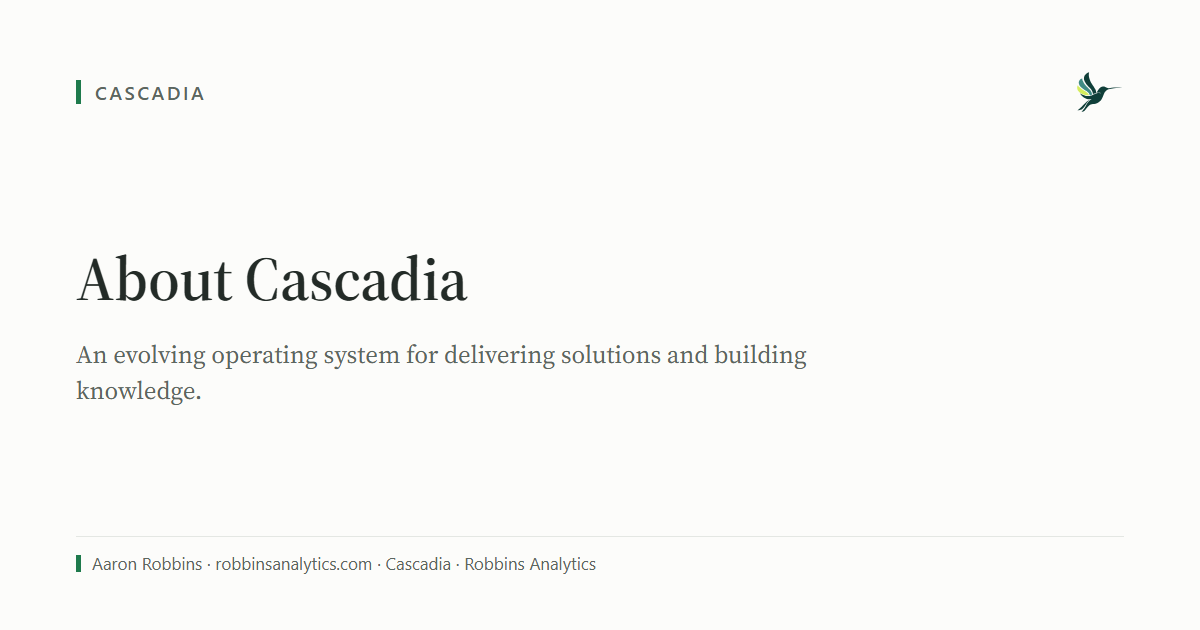
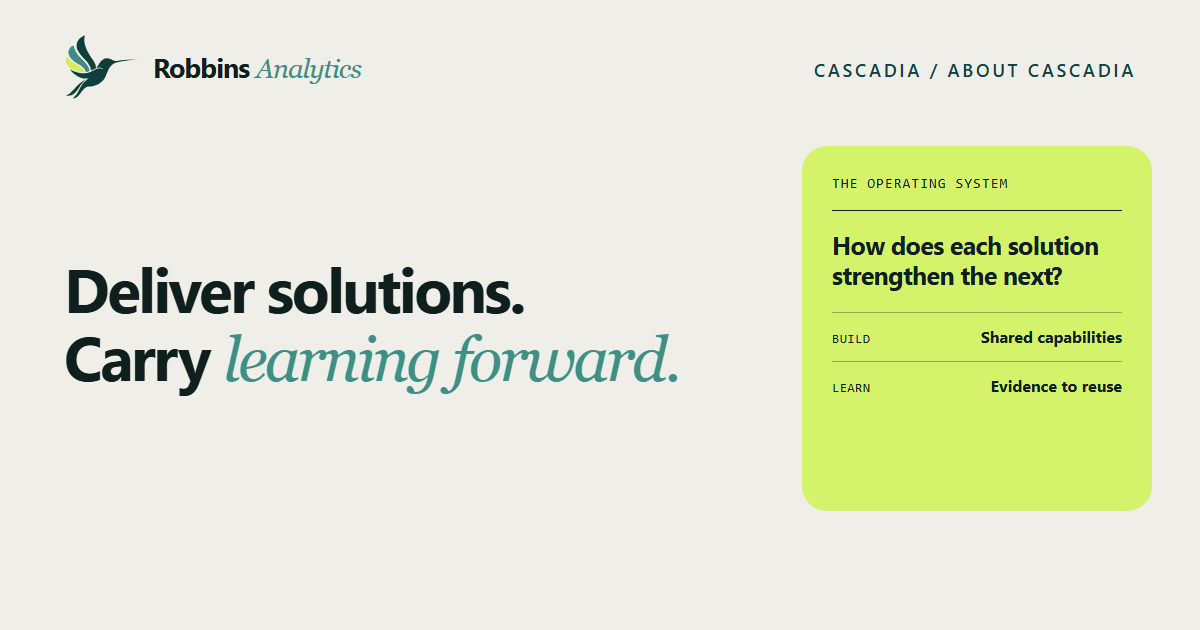
Refine Cascadia social previews with suite hero design

diff --git a/tools/build_thumbs.py b/tools/build_thumbs.py
@@ -1,11 +1,11 @@
 #!/usr/bin/env python3
-"""Build Cascadia OG/social thumbnails to the v2.2 design system.
+"""Build portfolio thumbnails and four Cascadia suite social previews.
 
 1200x630 (the Open Graph standard, and what iMessage/Slack/LinkedIn crop to).
-Rendered through the same Chromium the charts are, so the type and the palette
-are identical rather than merely similar.
+Rendered through Chromium so the suite previews can use the site's hero type,
+palette, logo and lime summary card.
 
-The signature elements, from VIZ-PRINCIPLES.md:
+The portfolio thumbnail signature elements, from VIZ-PRINCIPLES.md:
   - Paper #FCFCFA surface, Basalt text, Slate moss secondary
   - Source Serif 4 carries the voice; the Segoe UI stack carries the data
   - the provenance strip's Evergreen tick, in the same position every time
@@ -151,26 +151,34 @@ MODULES = [
          accent="evergreen", motif="bars"),
 ]
 
-# The four-page Cascadia operating system is a suite, not another analytics
-# module. These cards share the current brand mark and the existing card
-# typography, but omit chart motifs because none represents these pages.
+# The four-page Cascadia operating system has its own page-hero visual language.
+# Keep this separate from the portfolio/module thumbnails above.
 SUITE_PAGES = [
-    dict(slug="about", data="Cascadia · Robbins Analytics", kicker="Cascadia",
-         title="About Cascadia",
-         line="An evolving operating system for delivering solutions and building knowledge.",
-         accent="evergreen", motif=None),
-    dict(slug="in-practice", data="Cascadia · Robbins Analytics", kicker="Cascadia",
-         title="In Practice",
-         line="Real portfolio solutions show how rules, evidence and human review shape AI-assisted work.",
-         accent="evergreen", motif=None),
-    dict(slug="how-it-learns", data="Cascadia · Robbins Analytics", kicker="Cascadia",
-         title="How It Learns",
-         line="Evidence and retrospectives make learning available to the next build.",
-         accent="evergreen", motif=None),
-    dict(slug="for-your-company", data="Cascadia · Robbins Analytics", kicker="Cascadia",
-         title="For Your Company",
-         line="A playbook for setting up the capabilities and delivering the first accepted solution.",
-         accent="evergreen", motif=None),
+    dict(slug="about", title="About Cascadia",
+         headline="Deliver solutions.<br>Carry <em>learning forward.</em>",
+         card_kicker="The operating system",
+         card_title="How does each solution strengthen the next?",
+         rows=[("Build", "Shared capabilities"), ("Learn", "Evidence to reuse")]),
+    dict(slug="in-practice", title="In Practice",
+         headline="AI assists the analysis.<br>Evidence <em>earns trust.</em>",
+         card_kicker="The operating boundary",
+         card_title="What makes a solution usable?",
+         rows=[("Develop", "AI assists"), ("Check", "Evidence is inspectable"),
+               ("Decide", "People remain accountable")]),
+    dict(slug="how-it-learns", title="How It Learns",
+         headline_size=55,
+         headline="The work delivers a solution.<br>What was learned<br><em>shapes the next.</em>",
+         card_kicker="The learning route",
+         card_title="Knowledge makes learning transferable.",
+         rows=[("See", "What happened"), ("Reflect", "What was learned"),
+               ("Decide", "What can travel")]),
+    dict(slug="for-your-company", title="For Your Company",
+         headline_size=55,
+         headline="From the first week<br>to the <em>first accepted solution.</em>",
+         card_kicker="The route into delivery",
+         card_title="When is work ready to take?",
+         rows=[("First", "Agree scope and owners"), ("Then", "Assess readiness"),
+               ("Deliver", "Open intake and acceptance")]),
 ]
 
 MOTIFS = {
@@ -271,6 +279,60 @@ def page(m):
 </body></html>"""
 
 
+def suite_page(m):
+    """Render the suite's actual hero type and lime summary-card vocabulary."""
+    rows = "".join(
+        f'<div class="row"><dt>{label}</dt><dd>{value}</dd></div>'
+        for label, value in m["rows"]
+    )
+    return f"""<!doctype html><html><head><meta charset="utf-8">
+<style>
+  @page {{ size: 1200px 630px; margin: 0 }}
+  * {{ box-sizing: border-box }}
+  html, body {{ width: 1200px; height: 630px; margin: 0; background: #efeee9 }}
+  body {{ font-family: "Segoe UI", Arial, sans-serif; color: #0f1f1e;
+          -webkit-font-smoothing: antialiased; overflow: hidden }}
+  .top {{ height: 146px; padding: 33px 64px 0; display: flex;
+          align-items: flex-start; justify-content: space-between }}
+  .identity {{ display: flex; align-items: center; gap: 13px }}
+  .brand svg {{ display: block; width: 76px; height: 68px }}
+  .brand-name {{ font-size: 27px; font-weight: 700; letter-spacing: -.035em }}
+  .brand-name span {{ font-family: Georgia, serif; font-style: italic;
+                      font-weight: 400; color: #3f8f85 }}
+  .page-name {{ padding-top: 25px; font-size: 18px; font-weight: 600;
+                letter-spacing: .15em; text-transform: uppercase; color: #12403c }}
+  .content {{ display: grid; grid-template-columns: 710px 350px;
+              gap: 28px; padding: 0 64px }}
+  .headline {{ align-self: center; min-width: 0; padding-bottom: 10px }}
+  h1 {{ margin: 0; font-size: {m.get('headline_size', 62)}px; line-height: 1.09; letter-spacing: -.04em;
+        font-weight: 700; color: #0f1f1e }}
+  h1 em {{ font-family: Georgia, serif; font-weight: 400;
+           letter-spacing: -.045em; color: #3f8f85 }}
+  .card {{ min-height: 365px; background: #d4f36b; border-radius: 25px;
+           padding: 29px 30px 26px }}
+  .card-kicker {{ margin: 0; font: 14px/1.3 Consolas, monospace;
+                  letter-spacing: .08em; text-transform: uppercase }}
+  .rule {{ height: 1px; background: #0f1f1e; margin: 17px 0 19px }}
+  .card h2 {{ margin: 0 0 22px; font-size: 25px; line-height: 1.2;
+              letter-spacing: -.025em; font-weight: 700 }}
+  dl {{ margin: 0 }}
+  .row {{ display: flex; justify-content: space-between; gap: 18px;
+          align-items: baseline; border-top: 1px solid #0f1f1e55;
+          padding: 14px 0 }}
+  dt {{ font: 13px/1.2 Consolas, monospace; text-transform: uppercase;
+        letter-spacing: .04em; white-space: nowrap }}
+  dd {{ margin: 0; text-align: right; font-size: 16px; line-height: 1.2;
+        font-weight: 700; max-width: 190px }}
+</style></head><body>
+  <div class="top"><div class="identity"><div class="brand">{_MARK_SVG.read_text(encoding="utf-8")}</div>
+    <div class="brand-name">Robbins <span>Analytics</span></div></div>
+    <div class="page-name">Cascadia / {m['title']}</div></div>
+  <div class="content"><div class="headline"><h1>{m['headline']}</h1></div>
+    <aside class="card"><p class="card-kicker">{m['card_kicker']}</p><div class="rule"></div>
+      <h2>{m['card_title']}</h2><dl>{rows}</dl></aside></div>
+</body></html>"""
+
+
 def main():
     global OUT
     ap = argparse.ArgumentParser(description="Build Cascadia OG thumbnails.")
@@ -303,7 +365,7 @@ def main():
             print(f"  {png.name}")
         for m in SUITE_PAGES:
             html = OUT / f"_social-cascadia-{m['slug']}.html"
-            html.write_text(page(m), encoding="utf-8")
+            html.write_text(suite_page(m), encoding="utf-8")
             pg.goto(html.as_uri(), wait_until="networkidle")
             pg.wait_for_timeout(1200)
             png = OUT / f"social-cascadia-{m['slug']}.png"
